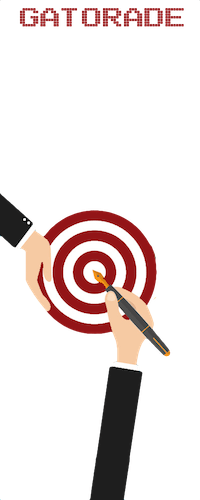
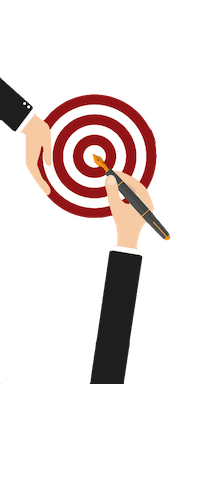
cosmetica

diff --git a/src/main/webapp/app/start/start.state.js b/src/main/webapp/app/start/start.state.js
@@ -1,0 +1,38 @@
+(function() {
+    'use strict';
+
+    angular
+        .module('gatoradeApp')
+        .config(stateConfig);
+
+    stateConfig.$inject = ['$stateProvider'];
+
+    function stateConfig($stateProvider) {
+        $stateProvider.state('start', {
+            parent: 'app',
+            url: '/',
+            data: {
+                authorities: []
+            },
+            views: {
+                'content@': {
+                    templateUrl: 'app/start/start.html',
+                    controller: 'StartController',
+                    controllerAs: 'vm'
+                },
+                'navbar@': {
+                    templateUrl: 'app/layouts/navbar/navbar2.html',
+                    controller: 'NavbarController',
+                    controllerAs: 'vm'
+                }
+            },
+            resolve: {
+                translatePartialLoader: ['$translate', '$translatePartialLoader', function ($translate,$translatePartialLoader) {
+                    $translatePartialLoader.addPart('home');
+                    return $translate.refresh();
+                }]
+            }
+        });
+
+    }
+})();

diff --git a/src/main/webapp/index.html b/src/main/webapp/index.html
@@ -16,6 +16,7 @@
     <!-- endinject -->
     <!-- endbuild -->
     <!-- build:css content/css/main.css -->
+    <link href="https://fonts.googleapis.com/css?family=Press+Start+2P" rel="stylesheet">
     <link rel="stylesheet" href="content/css/main.css">
     <!-- endbuild -->
     <link rel="shortcut icon" href="favicon.ico" />
@@ -223,7 +224,11 @@
     <script src="app/account/activate/activate.state.js"></script>
     <script src="app/account/activate/activate.controller.js"></script>
     <script src="app/account/account.state.js"></script>
+    <script src="app/start/start.controller.js"></script>
+    <script src="app/start/start.state.js"></script>
+
     <!-- endinject -->
+
 
     <!-- endbuild -->
 

diff --git a/src/main/webapp/app/layouts/navbar/navbar.html b/src/main/webapp/app/layouts/navbar/navbar.html
@@ -9,7 +9,7 @@
             </button>
             <a class="navbar-brand logo" href="#/" ng-click="vm.collapseNavbar()">
                 <img class="logo-img" src="content/images/OfficinaLogobianco1.png" alt="logo"/>
-                <span data-translate="global.title">Gatorade</span> <span class="navbar-version">v{{VERSION}}</span>
+                <span class="arcade officina" data-translate="global.title">Gatorade</span> <span class="navbar-version officina">v{{VERSION}}</span>
             </a>
         </div>
         <div class="navbar-collapse" uib-collapse="vm.isNavbarCollapsed" ng-switch="vm.isAuthenticated()">

diff --git a/src/test/javascript/spec/controllers/start.js b/src/test/javascript/spec/controllers/start.js
@@ -1,0 +1,23 @@
+'use strict';
+
+describe('Controller: StartCtrl', function () {
+
+  // load the controller's module
+  beforeEach(module('gatoradeApp'));
+
+  var StartCtrl,
+    scope;
+
+  // Initialize the controller and a mock scope
+  beforeEach(inject(function ($controller, $rootScope) {
+    scope = $rootScope.$new();
+    StartCtrl = $controller('StartCtrl', {
+      $scope: scope
+      // place here mocked dependencies
+    });
+  }));
+
+  it('should attach a list of awesomeThings to the scope', function () {
+    expect(StartCtrl.awesomeThings.length).toBe(3);
+  });
+});

diff --git a/src/main/webapp/app/playgame/game_finished.html b/src/main/webapp/app/playgame/game_finished.html
@@ -1,1 +1,14 @@
-<h1>GIOCO FINITO O SESSIONE TERMINATA</h1>
+<div class="container full-width arcade-bg" >
+    <div class="row arcade">
+        <div class="col-md-8"><p class="text-center">
+        <h1 class="arcade officina"> Gioco finito o sessione terminata. </h1><br /><small class="arcade">Grazie per aver giocato!</small>
+        </p>
+
+        </div>
+        <br />
+        <div class="col-md-4">
+            <span class="hipster img-responsive img-rounded"></span>
+        </div>
+    </div>
+
+</div>

diff --git a/src/main/webapp/app/home/home.html b/src/main/webapp/app/home/home.html
@@ -4,7 +4,7 @@
             <span class="hipster img-responsive img-rounded"></span>
         </div>
         <div class="col-md-8">
-            <h1 data-translate="home.title">Welcome to the Gatorade game integrator</h1>
+            <h1 data-translate="home.title" class="arcade">Welcome to the GATORADE game integrator</h1>
             <p class="lead" data-translate="home.subtitle">This is the admin page</p>
 
             <div ng-switch="vm.isAuthenticated()">

diff --git a/src/main/webapp/app/start/start.html b/src/main/webapp/app/start/start.html
@@ -1,0 +1,15 @@
+<div class="container full-width arcade-bg" >
+    <div class="row">
+        <div class="col-md-8"><p class="text-center">
+        <h1 class="arcade officina"> Stiamo preparando dei giochi molto interessanti. </h1><br /><small class="arcade">Ma non dovresti stare qui :)</small>
+        </p>
+
+    </div>
+    </div>
+    <br />
+    <div class="col-md-4">
+        <span class="hipster img-responsive img-rounded"></span>
+
+    </div>
+</div>
+

diff --git a/src/main/webapp/content/css/main.css b/src/main/webapp/content/css/main.css
@@ -397,4 +397,19 @@ ui bootstrap tweaks
     height: 10px!important;
     background: rgba(0,0,0,0);
 }
+.arcade-bg div{
+    width: 100%;
 
+    height: 100%;
+}
+.arcade{
+    font-family: 'Press Start 2P', cursive;
+}
+.officina{
+    color: #990000;
+}
+.full-width {
+    width: 100%;
+    min-width: 100%;
+    max-width: 100%;
+}

diff --git a/src/main/webapp/app/start/start.controller.js b/src/main/webapp/app/start/start.controller.js
@@ -1,0 +1,13 @@
+(function() {
+    'use strict';
+
+    angular
+        .module('gatoradeApp')
+        .controller('HomeController', StartController);
+
+    StartController.$inject = ['$scope', '$state'];
+
+    function StartController ($scope,  $state) {
+
+    }
+})();

diff --git a/src/main/webapp/app/app.constants.js b/src/main/webapp/app/app.constants.js
@@ -4,6 +4,6 @@
     angular
         .module('gatoradeApp')
         .constant('VERSION', "1.0.0")
-        .constant('DEBUG_INFO_ENABLED', false)
+        .constant('DEBUG_INFO_ENABLED', true)
 ;
 })();
